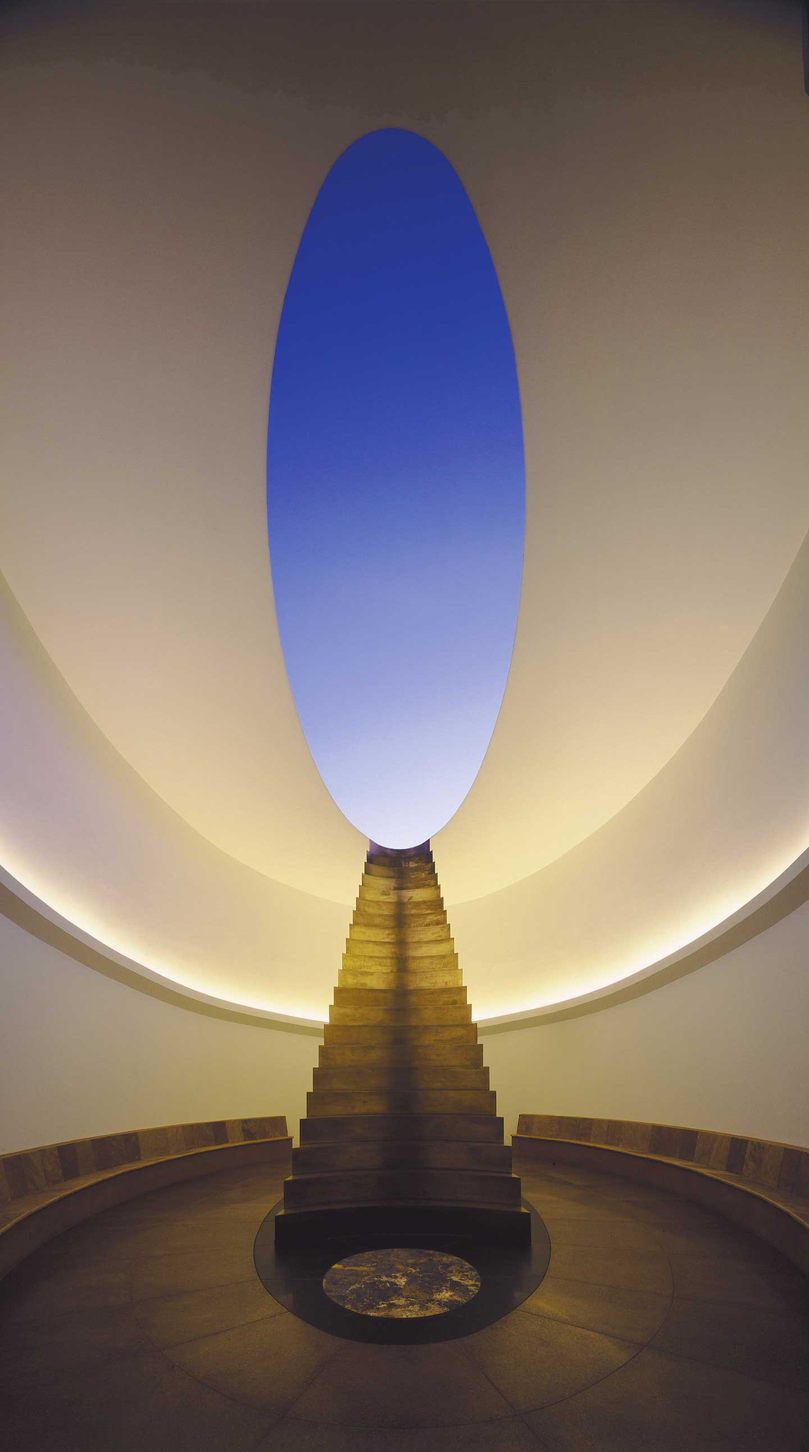
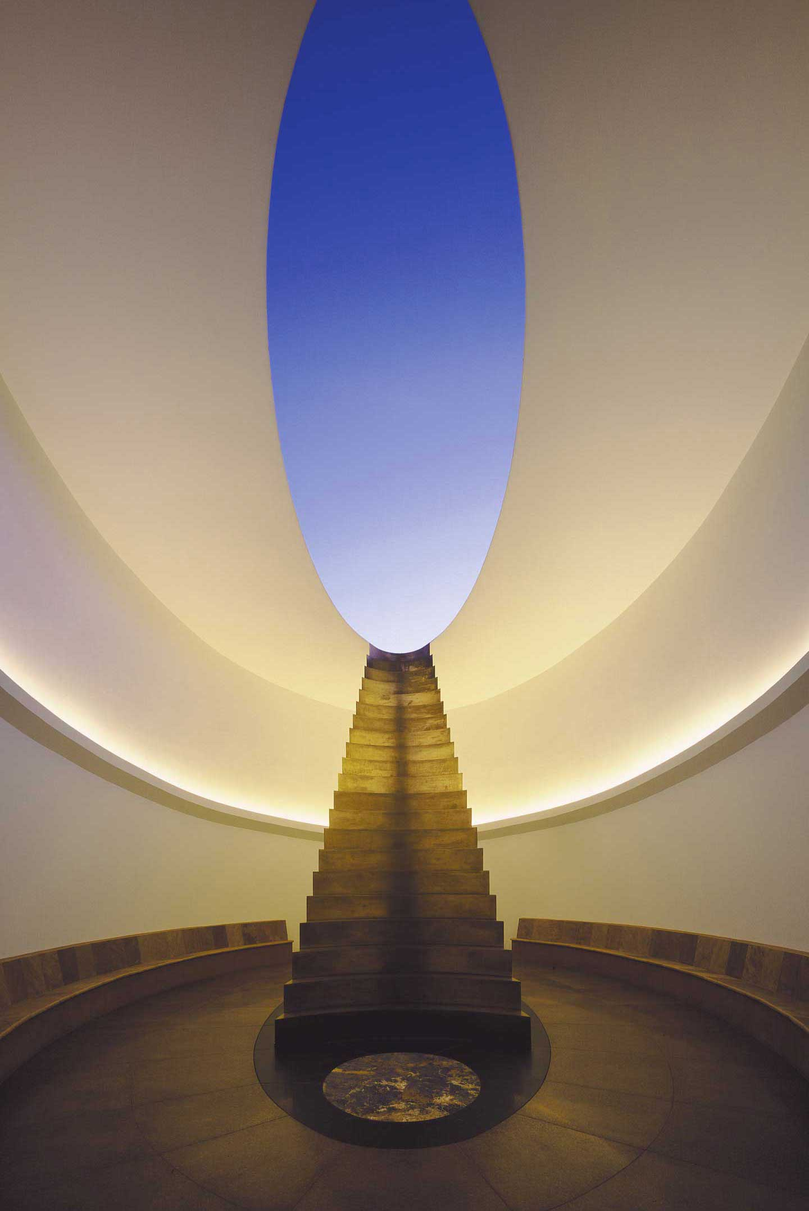
blog update

diff --git a/pub/blog/index.html b/pub/blog/index.html
@@ -307,6 +307,16 @@ limitations under the License.
               </div>
             </div>
           </div>
+          <div data-entry="jamesturrell" data-tags='["culture","art","design"]' data-author="Oliver Henderson" data-cdate='20160517' class="thumb on thumb_jamesturrell">
+            <div style="background-image: url(../img/blog/jamesturrell/1440/cover.jpg);" class="inner">
+              <div class="bg">
+                <div class="copy">
+                  <div class="name">Gateway to Space</div>
+                  <div class="filters">culture&nbsp;&nbsp;/&nbsp;&nbsp;art&nbsp;&nbsp;/&nbsp;&nbsp;design</div>
+                </div>
+              </div>
+            </div>
+          </div>
           <div data-entry="krimston" data-tags='["studio"]' data-author="Clare Nauman" data-cdate='20160401' class="thumb on thumb_krimston">
             <div style="background-image: url(../img/blog/krimston/1440/krimston.jpg);" class="inner">
               <div class="bg">
@@ -3181,7 +3191,176 @@ limitations under the License.
             <!--img(src='../img/work/'+folder+'/'+image)-->
           </div>
         </div>
-        <div class="nav"><a href="/blog/#camo" class="next"> 
+        <div class="nav"><a href="/blog/#jamesturrell" class="prev">
+            <div class="arrow left"></div>
+            <div class="copy">Previous</div></a><a href="/blog/#camo" class="next"> 
+            <div class="copy">Next</div>
+            <div class="arrow right"></div></a>
+          <div class="clear"></div>
+        </div>
+      </div>
+      <div class="entry entry_jamesturrell off">
+        <div style="background-image: url(../img/blog/jamesturrell/1440/cover.jpg);" class="cover"></div>
+        <div class="details">
+          <div class="date">5.17.2016</div>
+          <div class="author">Posted by <a href="/blog/#author=Oliver Henderson">Oliver Henderson</a></div>
+          <div class="tags">Filed Under <a href="/blog/#tag=culture">culture</a>
+            <div class="comma">,</div><a href="/blog/#tag=art">art</a>
+            <div class="comma">,</div><a href="/blog/#tag=design">design</a>
+            <div class="comma">,</div>
+          </div>
+          <div class="shares">
+            <div class="copy">SHARE</div>
+            <div data-type="twitter" class="share share_twitter"><svg version="1.1" xmlns="http://www.w3.org/2000/svg" xmlns:xlink="http://www.w3.org/1999/xlink" viewBox="0 0 612 612" style="enable-background:new 0 0 612 612;" xml:space="preserve">
+<g>
+	<g>
+		<path d="M612,116.258c-22.525,9.981-46.694,16.75-72.088,19.772c25.929-15.527,45.777-40.155,55.184-69.411
+			c-24.322,14.379-51.169,24.82-79.775,30.48c-22.907-24.437-55.49-39.658-91.63-39.658c-69.334,0-125.551,56.217-125.551,125.513
+			c0,9.828,1.109,19.427,3.251,28.606C197.065,206.32,104.556,156.337,42.641,80.386c-10.823,18.51-16.98,40.078-16.98,63.101
+			c0,43.559,22.181,81.993,55.835,104.479c-20.575-0.688-39.926-6.348-56.867-15.756v1.568c0,60.806,43.291,111.554,100.693,123.104
+			c-10.517,2.83-21.607,4.398-33.08,4.398c-8.107,0-15.947-0.803-23.634-2.333c15.985,49.907,62.336,86.199,117.253,87.194
+			c-42.947,33.654-97.099,53.655-155.916,53.655c-10.134,0-20.116-0.612-29.944-1.721c55.567,35.681,121.536,56.485,192.438,56.485
+			c230.948,0,357.188-191.291,357.188-357.188l-0.421-16.253C573.872,163.526,595.211,141.422,612,116.258z"/>
+	</g>
+</g>
+<g>
+</g>
+<g>
+</g>
+<g>
+</g>
+<g>
+</g>
+<g>
+</g>
+<g>
+</g>
+<g>
+</g>
+<g>
+</g>
+<g>
+</g>
+<g>
+</g>
+<g>
+</g>
+<g>
+</g>
+<g>
+</g>
+<g>
+</g>
+<g>
+</g>
+</svg>
+
+            </div>
+            <div data-type="facebook" class="share share_facebook"><?xml version="1.0" encoding="utf-8"?>
+<!-- Generator: Adobe Illustrator 18.1.0, SVG Export Plug-In . SVG Version: 6.00 Build 0)  -->
+<svg version="1.1" id="Layer_1" xmlns="http://www.w3.org/2000/svg" xmlns:xlink="http://www.w3.org/1999/xlink" x="0px" y="0px"
+	 viewBox="0 0 20.6 39.6" enable-background="new 0 0 20.6 39.6" xml:space="preserve">
+<path fill="#FFFFFF" d="M0,14.5h6.1V8.8c0,0-0.3-3.7,2.5-6.5c2.8-2.8,6.6-2.5,11.9-2.1v6.3h-4c0,0-1.7,0-2.4,0.9
+	c-0.8,0.9-0.7,2.2-0.7,2.5v4.5h6.9l-0.9,7h-6v18.1H6.1V21.5H0V14.5z"/>
+</svg>
+
+            </div>
+            <div data-type="link" class="share share_link off"><?xml version="1.0" encoding="iso-8859-1"?>
+<svg version="1.1" xmlns="http://www.w3.org/2000/svg" xmlns:xlink="http://www.w3.org/1999/xlink" x="0px" y="0px"
+	 viewBox="0 0 457.03 457.03" style="enable-background:new 0 0 457.03 457.03;"
+	 xml:space="preserve">
+<g>
+	<path d="M421.512,207.074l-85.795,85.767c-47.352,47.38-124.169,47.38-171.529,0c-7.46-7.439-13.296-15.821-18.421-24.465
+		l39.864-39.861c1.895-1.911,4.235-3.006,6.471-4.296c2.756,9.416,7.567,18.33,14.972,25.736c23.648,23.667,62.128,23.634,85.762,0
+		l85.768-85.765c23.666-23.664,23.666-62.135,0-85.781c-23.635-23.646-62.105-23.646-85.768,0l-30.499,30.532
+		c-24.75-9.637-51.415-12.228-77.373-8.424l64.991-64.989c47.38-47.371,124.177-47.371,171.557,0
+		C468.869,82.897,468.869,159.706,421.512,207.074z M194.708,348.104l-30.521,30.532c-23.646,23.634-62.128,23.634-85.778,0
+		c-23.648-23.667-23.648-62.138,0-85.795l85.778-85.767c23.665-23.662,62.121-23.662,85.767,0
+		c7.388,7.39,12.204,16.302,14.986,25.706c2.249-1.307,4.56-2.369,6.454-4.266l39.861-39.845
+		c-5.092-8.678-10.958-17.03-18.421-24.477c-47.348-47.371-124.172-47.371-171.543,0L35.526,249.96
+		c-47.366,47.385-47.366,124.172,0,171.553c47.371,47.356,124.177,47.356,171.547,0l65.008-65.003
+		C246.109,360.336,219.437,357.723,194.708,348.104z"/>
+</g>
+</svg>
+
+            </div>
+            <div class="share_url off">
+              <input type="text" value="http://www.wjerlkwejrelw.com/"/>
+            </div>
+          </div>
+          <div class="clear"></div>
+          <div class="copy">
+            <div class="name">Gateway to Space</div>
+            <div class="description">Artist <a target='_new' href='http://www.jamesturrell.com'>James Turell</a> is well known for his expansive body of work exploring the materiality of light, space and color. I’ve been inspired by his work ever since learning about it in Art History. Recently his work was popularized to a new generation thanks to a certain musician who referenced Turell’s work for his Hotline Bling music video. What some newcomers to his work might have missed however, is Turell’s most ambitious and astoundingly massive work to date, <a target='_new' href='http://www.rodencrater.com'>Roden Crater</a>. Viewed as the “magnum opus" to his prolific career, Roden Crater, is large-scale artwork covering several square kilometers and located in an inactive volcano in a remote region of Northern Arizona. Functioning as a “naked-eye observatory” and complete with celestial alignments, I find this project is truly awe inspiring on multiple levels. Although it is currently closed for ongoing construction since Turell acquired the site in 1977, I plan to visit this installation when completed (likely many years from now) and would encourage those who like his work to do the same.</div>
+          </div>
+        </div>
+        <div class="clear"></div>
+        <div class="body">
+          <div class="space"></div>
+          <div class="images">
+            <div class="image pad_vert">
+              <div style="background-image: url(/img/blog/jamesturrell/1440/2_holzherr.jpg);" class="img"></div>
+              <!--img(src='../img/work/'+folder+'/'+image)-->
+            </div>
+            <div class="image pad_vert">
+              <div style="background-image: url(/img/blog/jamesturrell/1440/03-roden.jpg);" class="img"></div>
+              <!--img(src='../img/work/'+folder+'/'+image)-->
+            </div>
+            <div class="clear"></div>
+          </div>
+          <div class="space"></div>
+          <div class="images">
+            <div class="image pad_vert">
+              <div style="background-image: url(/img/blog/jamesturrell/1440/craters-eye2.jpg);" class="img"></div>
+              <!--img(src='../img/work/'+folder+'/'+image)-->
+            </div>
+            <div class="image pad_vert">
+              <div style="background-image: url(/img/blog/jamesturrell/1440/eastportal_evening.jpg);" class="img"></div>
+              <!--img(src='../img/work/'+folder+'/'+image)-->
+            </div>
+            <div class="clear"></div>
+          </div>
+          <div class="space"></div>
+          <div class="image pad_none">
+            <div style="background-image: url(/img/blog/jamesturrell/1440/conjunctionb.jpg);" class="img"></div>
+            <!--img(src='../img/work/'+folder+'/'+image)-->
+          </div>
+          <div class="space"></div>
+          <div class="images">
+            <div class="image pad_vert">
+              <div style="background-image: url(/img/blog/jamesturrell/1440/img_door.jpg);" class="img"></div>
+              <!--img(src='../img/work/'+folder+'/'+image)-->
+            </div>
+            <div class="image pad_vert">
+              <div style="background-image: url(/img/blog/jamesturrell/1440/img_door2.jpg);" class="img"></div>
+              <!--img(src='../img/work/'+folder+'/'+image)-->
+            </div>
+            <div class="clear"></div>
+          </div>
+          <div class="space"></div>
+          <div class="images">
+            <div class="image pad_vert">
+              <div style="background-image: url(/img/blog/jamesturrell/1440/roden.jpg);" class="img"></div>
+              <!--img(src='../img/work/'+folder+'/'+image)-->
+            </div>
+            <div class="image pad_vert">
+              <div style="background-image: url(/img/blog/jamesturrell/1440/southspace.jpg);" class="img"></div>
+              <!--img(src='../img/work/'+folder+'/'+image)-->
+            </div>
+            <div class="clear"></div>
+          </div>
+          <div class="space"></div>
+          <div class="image pad_none">
+            <div style="background-image: url(/img/blog/jamesturrell/1440/rodencrater.jpg);" class="img"></div>
+            <!--img(src='../img/work/'+folder+'/'+image)-->
+          </div>
+          <div class="space"></div>
+          <div class="image pad_none">
+            <div style="background-image: url(/img/blog/jamesturrell/1440/crater_bowl.jpg);" class="img"></div>
+            <!--img(src='../img/work/'+folder+'/'+image)-->
+          </div>
+        </div>
+        <div class="nav"><a href="/blog/#astroswag" class="next"> 
             <div class="copy">Next</div>
             <div class="arrow right"></div></a>
           <div class="clear"></div>
@@ -3383,7 +3562,7 @@ limitations under the License.
       function loadercomplete() {
         Loader.load('../jst/blog.js', 'Blog');
         Global.i()
-        entries = {"BiYuu":{"folder":"BiYuu","cover":"AllArtisans.jpg","author":"Dennice Quijano","date":"2.19.2016","cdate":20160219,"name":"Rugs With Soul, Made By Expert Hands","description":"<a target='_new' href='http://www.biyuu.mx/home/'>BiYuu</a> is a textile design brand that creates beautiful woven rugs. These rugs are led by Marisol Centeno, who founded the brand in 2012. The designer's vision is to create textiles with a strong vision of quality, cutting-edge design and social responsibility.<p>BiYuu takes care of our planet and pays attention to the current state of environmental precarity using earth-friendly, sustainable materials. Implementing small-scale artisanal production, BiYuu supports the custodianship of our natural resources.<p>Marisol Centeno, lead designer, works closely with artisans from Teotenango, Mexico where rug weaving has been a tradition for decades. BiYuu is a fair trade company and uses prices that balance with the market, respects local customs, and all while understanding the process and time it takes to create a handmade product.","color":"pink1","tags":["culture"],"home":true},"artventure":{"folder":"artventure","cover":"Kehinde2.jpg","author":"Sean Missal","date":"03.11.2016","cdate":20160311,"name":"ArtVenture","description":"February was a long month of traveling for our industrial designer, Sean Missal. He traveled up and down the west coast before making his way east, hitting up a variety of galleries and museums along the way.","color":"blue2","tags":["culture","art"]},"astroswag":{"folder":"astroswag","cover":"01_astrostudios_cover.jpg","author":"Zac Maricondia","date":"5.13.2016","cdate":20160513,"name":"Astroswag","description":"One of the perks of working at a design studio is that we occasionally get to design some gear to up our swag factor. This time we did a collection of three fresh t-shirts featuring our mascot, Armstrong the Spaceman. And, because pins are in, we also designed a set of three very spacey pins.","color":"orange2","tags":["studio","culture"],"home":true},"broad":{"folder":"broad","cover":"astrostudios_broad-01.jpg","author":"Woo","date":"01.21.2016","cdate":20160121,"name":"Broad Exploration","description":"Last week I was in LA with a few hours to kill and found myself standing in front of a huge honeycomb-like structure. I quickly identified it as The Broad, L.A.'s New Contemporary Art Museum. The museum was designed by Diller Scofidio and Renfro in collaboration with Gensler, and the admission is FREE!","color":"red3","tags":["culture","art"]},"camo":{"folder":"camo","cover":"astro_studios_camo-001.jpg","author":"Alejandro Chavetta","date":"5.12.2016","cdate":20160512,"name":"Hiding in Plain Sight","description":"During WWI, around 1917, British military vessels were being sunk by German U-boats at an alarming rate.","color":"black3","tags":["design","art","culture"],"home":true},"caposter":{"folder":"caposter","cover":"cover.jpg","author":"Tom Galbraith","date":"2.10.2016","cdate":20160210,"name":"Draplin Design’s California Compiled","description":"We are super psyched to receive this new poster from Aaron Draplin and his Draplin Design Company from Portland OR. Astro is logo-checked in Draplin’s homage to the behemoth that is California. In this print titled California Compiled, Astro shares real estate with the likes of WD-40, Bigfoot, Thrasher Magazine and Pavement. We would like to thank Aaron for including us in this killer poster. Get one of these mega-rare posters for your wall <a target='_new' href='http://www.draplin.com/1998/01/ddc089_california_compiled_poster.html'>here</a>. California dreaming indeed!","color":"orange2","tags":["design"],"home":true},"eightarms":{"folder":"eightarms","cover":"cover.png","author":"David Whetstone","date":"7.6.2015","cdate":20150706,"name":"So many watches I need 8 arms","description":"The updated color ways for Minus 8's Layer 24 collection have just dropped in.  In this follow up collection, we were inspired by bold color blocking, and userd the unique layer construction to create new, unexpected color and material finish separations in the case.  New details include various enamel and lume-filled branded etching which adds depth to smooth case geometry.  Look for new Minus 8 watch models soon.","color":"orange1","tags":["design","studio"],"home":true},"flyingmotorcycles":{"folder":"flyingmotorcycles","cover":"jetbike_highres3.jpg","author":"Tom Galbraith","date":"3.25.2016","cdate":20160325,"name":"Flying Motorcycles!","description":"Astro’s Norio Fujikawa has been very active lately.  Currently, Norio’s design concept that mixes motorcycles, space flight and Japanese animation is featured in Forbes’ Lifestyle section. <a target='_new' href='http://www.forbes.com/sites/jimdobson/2016/03/08/meet-george-jetson-the-future-of-flying-motorcycles-is-here/#6b4c467b582c'>Check it OUT!</a>.","color":"red4","tags":["design","culture"],"home":true},"foosball":{"folder":"foosball","cover":"1.jpg","author":"Tom Galbraith","date":"04.03.2016","cdate":20160403,"name":"Foosball Tournament","description":"Last week, we had a gigantic blast competing with Frog Design in an action-packed foosball tournament here at Astro. If you didn’t know, we take our foosball serious here, or more importantly, we are serious about looking good while playing and winning foosball. We designed our first AFC (Astro Foosball Club) t-shirts and patches, as well as a gold trophy to match. Frog took the bait, I mean accepted our invitation to this evening of foos, brews, pizza and beats. With sheer tenacity and skills, Astro emerged victorious!Mega-good–times! We can’t wait to beat another design group in some sort of amusement game. Snooker, Air Hockey? Pop-A-Shot? Bring it on!","color":"blue5","tags":["studio","culture"],"home":true},"iceland":{"folder":"iceland","cover":"cover.jpg","author":"Francois Dransart","date":"11.25.2015","cdate":20151125,"name":"To Iceland and Back Again","description":"Recently our designer Francois Dransart visited Iceland with his buddies.  The week long trip took him through space-like sparseness to lush, gushing waterfalls and fantastic hot springs. He somehow got a drone through customs without a hitch, so now we get to see Iceland through Francois’ eyes. Enjoy!","color":"black2","tags":["travel"],"home":true},"krimston":{"folder":"krimston","cover":"krimston.jpg","author":"Clare Nauman","date":"4.01.2016","cdate":20160401,"name":"TWO phones too many: Astro x Krimston","description":"Krimston came to us with a love for their iPhones and travel. But with the all of the travel came high roaming fees and a constant switching between work and personal phones. We worked with Krimston to design TWO, a, iPhone case that is also a dual SIM card, so all of a users’ contacts and information can stay in one place without having multiple phones.  Check out Krimston’s Kickstarter <a target='_new' href='https://www.kickstarter.com/projects/775086138/krimston-two-dual-sim-case-for-iphone'>here</a>!","color":"blue6","tags":["studio"],"home":true},"malcolm":{"folder":"malcolm","cover":"cover.jpg","author":"Tom Galbraith","date":"9.22.2015","cdate":20150922,"name":"Dodgeball Uniforms","description":"Airbrush painting has long lived in mall kiosks, county fair booths and/or street fairs.  Malcolm Stuart is keeping this art form in thrive-mode working out his loft in Oakland painting his perfect mix of pop and beauty.  Malcolm got his MFA at the School of Visual Arts in Manhattan.  Shortly after graduating he didn't really know what his next step would be, so he started an airbrush apprenticeship at a shop in Green Acres Mall in Jamaica, Queens called Art of Your Mind.","color":"green1","tags":["culture","studio"],"home":true},"nasa":{"folder":"nasa","cover":"cover.jpg","author":"David Whetstone","date":"9.27.2015","cdate":20150927,"name":"NASA Brand Guide","description":"The original NASA brand guide has been making its rounds on the blogs; we saw it on <a target='_new' href='http://hypebeast.com/2015/8/take-a-closer-look-at-nasa-futuristic-logo-from-the-70s'>HYPEBEAST</a> then found the <a href='https://www.flickr.com/photos/thisisdisplay/sets/72157627467855309/' target='_new'>ORIGINAL SOURCE</a>. Here are some of our favorite images.","color":"blue4","tags":["design"],"home":true},"orah":{"folder":"orah","cover":"cover.jpg","author":"Clare Nauman","date":"4.22.2016","cdate":20160422,"name":"Live Stream in 360°","description":"In the world of live video streaming, we are used to seeing video in two dimensions, with images framed up in 90 degree angles. With the latest work we did with VideoStitch, live streaming in 360 degrees is now possible. We worked with the VideoStitch team to create Orah 4i, a four-camera rig that stitches images together to create a 360 degree virtual reality experience. The tiny size means the Orah 4i is inconspicuous and portable. We also created the naming and branding for Orah, making a totally custom font. This little camera rig is making some buzz, and we think <a target='_new' href='http://www.theverge.com/2016/4/6/11339674/orah-4i-4k-live-streaming-camera-virtual-reality-360'>The Verge</a> says it best.","color":"black3","tags":["studio"],"home":true},"oscardelerenta":{"folder":"oscardelerenta","cover":"cover.jpg","author":"Brett Lovelady","date":"04.27.2016","cdate":20160427,"name":"The Sultan of Suave","description":"Recently I attended the Oscar de le Renta exhibit at the San Francisco De Young Museum with my lovely wife and daughter for a grand afternoon of American (via Dominican Republic) fashion history.  ODLR’s genius is on full display in this collection.  We especially enjoyed “The Sultan of Suave’s”  work inspired by thematic locations like Russia, China, Spain, etc. in addition to his bold use of colors, textures, detailing and materials which were amazingly crafted and executed. He often designed for the America’s First Ladies and Hollywood elite, but just as impressive was his work and support for the struggling children of his native Dominican Republic. For more background also checkout his website timeline, <a target='_new' href='http://www.oscardelarenta.com/world-of-oscar'>http://www.oscardelarenta.com/world-of-oscar</a>.","color":"red3","tags":["culture","art"]},"pins":{"folder":"pins","cover":"cover.jpg","author":"Tom Galbraith","date":"8.31.2015","cdate":20150831,"name":"Pins for the Win","description":"With enamel pins trending in streetwear, we were inspired and designed our first collection celebrating our #FIGHTGRAVITY campaign.  These little guys have proven to be popular, so save some space on your lapels for our next collection.","color":"blue4","tags":["culture","studio"],"home":true},"pulse":{"folder":"pulse","cover":"cover.jpg","author":"Tom Galbraith","date":"9.22.2015","cdate":20150922,"name":"Baller sound that won't drain your wallet","description":"Motorola just released the Astro designed Moto Pulse on-ear headphones.  These cans boast 40mm speaker drivers and bluetooth connectivity up to 60 feet.  The battery also lasts up to 18 hours on a single charge.  Yes they look awesome, yes they sound killer, but the real lure just may be their affordability.  $59.99 out the door!  The Pulse comes in two colors to choose from, black and chalk.  Check out the positive reviews in <a target='_new' href='http://www.theverge.com/2015/7/28/9057293/motorola-moto-pulse-moto-surround-headphones-price'>TheVerge</a> and <a target='_new' href='http://www.engadget.com/2015/07/28/motorola-pulse-and-surround/'>Engadget</a>, then go slap a pair on your earholes!","color":"red1","tags":["news"],"home":true},"secretsanta21":{"folder":"secretsanta21","cover":"cover.jpg","author":"Tom Galbraith","date":"12.22.2015","cdate":20151222,"name":"Getting Gifty With It","description":"Coming from a long line of DIY designers, thinkers, and tinkerers, it’s no surprise that we at Astro take Secret Santa serious. After the traditional drawing of co-workers names from a hat, there are only two rules for the gift exchange. Firstly, you can’t make people cry, and secondly no live animals. The gifts often fit into a medium-to-harsh roast type scenario, but not always. Sometimes the gifts are killer hand-made gifts from an awesome person you work with. That’s just the luck of the draw. This was the 21st annual gift exchange, but the first for a good handful of new designers that were indoctrinated.  Always super fun, and Karson in particular can’t wait till next year.","color":"green3","tags":["studio"],"home":true},"snowisdope":{"folder":"snowisdope","cover":"cover.jpg","author":"Tom Galbraith","date":"03.03.2016","cdate":20160303,"name":"Tahoe Snowcation","description":"Ahhh, Snowcation!<p>Check out the snowboard selfie-stick goPro skills of our designer Francois. We had a blast rolling up to Tahoe.","color":"blue5","tags":["travel","studio"],"home":true},"xoxoxbox":{"folder":"xoxoxbox","cover":"2xbox360.jpg","author":"Tom Galbraith","date":"5.04.2016","cdate":20160504,"name":"XOXO XBOX","description":"It’s with bleary eyes and callused fingers that we heard it was game over for the production of the Xbox360 as of April, 2016. Working on the Xbox360 console, controllers and family of accessories was the start of a long running collaboration between ASTRO and Microsoft. Originally released November 22nd 2005, the Xbox360 has since sold over 84 million units and racked up over 78 billion gaming hours played. It is fantastic to be part of the Xbox legacy, which also arguably set the bar for game controllers to this day (they’re still in production). We’d like to also Hi5 the army of creative people that bled into this product family, it was a great run. For more information about our design process and pictures of early Xbox 360 models, check our <a target='_new' href='http://www.astrostudios.com/work/#xbox'>product page</a>.","color":"green1","tags":["studio"],"home":true}};
+        entries = {"BiYuu":{"folder":"BiYuu","cover":"AllArtisans.jpg","author":"Dennice Quijano","date":"2.19.2016","cdate":20160219,"name":"Rugs With Soul, Made By Expert Hands","description":"<a target='_new' href='http://www.biyuu.mx/home/'>BiYuu</a> is a textile design brand that creates beautiful woven rugs. These rugs are led by Marisol Centeno, who founded the brand in 2012. The designer's vision is to create textiles with a strong vision of quality, cutting-edge design and social responsibility.<p>BiYuu takes care of our planet and pays attention to the current state of environmental precarity using earth-friendly, sustainable materials. Implementing small-scale artisanal production, BiYuu supports the custodianship of our natural resources.<p>Marisol Centeno, lead designer, works closely with artisans from Teotenango, Mexico where rug weaving has been a tradition for decades. BiYuu is a fair trade company and uses prices that balance with the market, respects local customs, and all while understanding the process and time it takes to create a handmade product.","color":"pink1","tags":["culture"],"home":true},"artventure":{"folder":"artventure","cover":"Kehinde2.jpg","author":"Sean Missal","date":"03.11.2016","cdate":20160311,"name":"ArtVenture","description":"February was a long month of traveling for our industrial designer, Sean Missal. He traveled up and down the west coast before making his way east, hitting up a variety of galleries and museums along the way.","color":"blue2","tags":["culture","art"]},"astroswag":{"folder":"astroswag","cover":"01_astrostudios_cover.jpg","author":"Zac Maricondia","date":"5.13.2016","cdate":20160513,"name":"Astroswag","description":"One of the perks of working at a design studio is that we occasionally get to design some gear to up our swag factor. This time we did a collection of three fresh t-shirts featuring our mascot, Armstrong the Spaceman. And, because pins are in, we also designed a set of three very spacey pins.","color":"orange2","tags":["studio","culture"],"home":true},"broad":{"folder":"broad","cover":"astrostudios_broad-01.jpg","author":"Woo","date":"01.21.2016","cdate":20160121,"name":"Broad Exploration","description":"Last week I was in LA with a few hours to kill and found myself standing in front of a huge honeycomb-like structure. I quickly identified it as The Broad, L.A.'s New Contemporary Art Museum. The museum was designed by Diller Scofidio and Renfro in collaboration with Gensler, and the admission is FREE!","color":"red3","tags":["culture","art"]},"camo":{"folder":"camo","cover":"astro_studios_camo-001.jpg","author":"Alejandro Chavetta","date":"5.12.2016","cdate":20160512,"name":"Hiding in Plain Sight","description":"During WWI, around 1917, British military vessels were being sunk by German U-boats at an alarming rate.","color":"black3","tags":["design","art","culture"],"home":true},"caposter":{"folder":"caposter","cover":"cover.jpg","author":"Tom Galbraith","date":"2.10.2016","cdate":20160210,"name":"Draplin Design’s California Compiled","description":"We are super psyched to receive this new poster from Aaron Draplin and his Draplin Design Company from Portland OR. Astro is logo-checked in Draplin’s homage to the behemoth that is California. In this print titled California Compiled, Astro shares real estate with the likes of WD-40, Bigfoot, Thrasher Magazine and Pavement. We would like to thank Aaron for including us in this killer poster. Get one of these mega-rare posters for your wall <a target='_new' href='http://www.draplin.com/1998/01/ddc089_california_compiled_poster.html'>here</a>. California dreaming indeed!","color":"orange2","tags":["design"],"home":true},"eightarms":{"folder":"eightarms","cover":"cover.png","author":"David Whetstone","date":"7.6.2015","cdate":20150706,"name":"So many watches I need 8 arms","description":"The updated color ways for Minus 8's Layer 24 collection have just dropped in.  In this follow up collection, we were inspired by bold color blocking, and userd the unique layer construction to create new, unexpected color and material finish separations in the case.  New details include various enamel and lume-filled branded etching which adds depth to smooth case geometry.  Look for new Minus 8 watch models soon.","color":"orange1","tags":["design","studio"],"home":true},"flyingmotorcycles":{"folder":"flyingmotorcycles","cover":"jetbike_highres3.jpg","author":"Tom Galbraith","date":"3.25.2016","cdate":20160325,"name":"Flying Motorcycles!","description":"Astro’s Norio Fujikawa has been very active lately.  Currently, Norio’s design concept that mixes motorcycles, space flight and Japanese animation is featured in Forbes’ Lifestyle section. <a target='_new' href='http://www.forbes.com/sites/jimdobson/2016/03/08/meet-george-jetson-the-future-of-flying-motorcycles-is-here/#6b4c467b582c'>Check it OUT!</a>.","color":"red4","tags":["design","culture"],"home":true},"foosball":{"folder":"foosball","cover":"1.jpg","author":"Tom Galbraith","date":"04.03.2016","cdate":20160403,"name":"Foosball Tournament","description":"Last week, we had a gigantic blast competing with Frog Design in an action-packed foosball tournament here at Astro. If you didn’t know, we take our foosball serious here, or more importantly, we are serious about looking good while playing and winning foosball. We designed our first AFC (Astro Foosball Club) t-shirts and patches, as well as a gold trophy to match. Frog took the bait, I mean accepted our invitation to this evening of foos, brews, pizza and beats. With sheer tenacity and skills, Astro emerged victorious!Mega-good–times! We can’t wait to beat another design group in some sort of amusement game. Snooker, Air Hockey? Pop-A-Shot? Bring it on!","color":"blue5","tags":["studio","culture"],"home":true},"iceland":{"folder":"iceland","cover":"cover.jpg","author":"Francois Dransart","date":"11.25.2015","cdate":20151125,"name":"To Iceland and Back Again","description":"Recently our designer Francois Dransart visited Iceland with his buddies.  The week long trip took him through space-like sparseness to lush, gushing waterfalls and fantastic hot springs. He somehow got a drone through customs without a hitch, so now we get to see Iceland through Francois’ eyes. Enjoy!","color":"black2","tags":["travel"],"home":true},"jamesturrell":{"folder":"jamesturrell","cover":"cover.jpg","author":"Oliver Henderson","date":"5.17.2016","cdate":20160517,"name":"Gateway to Space","description":"Artist <a target='_new' href='http://www.jamesturrell.com'>James Turell</a> is well known for his expansive body of work exploring the materiality of light, space and color. I’ve been inspired by his work ever since learning about it in Art History. Recently his work was popularized to a new generation thanks to a certain musician who referenced Turell’s work for his Hotline Bling music video. What some newcomers to his work might have missed however, is Turell’s most ambitious and astoundingly massive work to date, <a target='_new' href='http://www.rodencrater.com'>Roden Crater</a>. Viewed as the “magnum opus\" to his prolific career, Roden Crater, is large-scale artwork covering several square kilometers and located in an inactive volcano in a remote region of Northern Arizona. Functioning as a “naked-eye observatory” and complete with celestial alignments, I find this project is truly awe inspiring on multiple levels. Although it is currently closed for ongoing construction since Turell acquired the site in 1977, I plan to visit this installation when completed (likely many years from now) and would encourage those who like his work to do the same.","color":"orange1","tags":["culture","art","design"],"home":true},"krimston":{"folder":"krimston","cover":"krimston.jpg","author":"Clare Nauman","date":"4.01.2016","cdate":20160401,"name":"TWO phones too many: Astro x Krimston","description":"Krimston came to us with a love for their iPhones and travel. But with the all of the travel came high roaming fees and a constant switching between work and personal phones. We worked with Krimston to design TWO, a, iPhone case that is also a dual SIM card, so all of a users’ contacts and information can stay in one place without having multiple phones.  Check out Krimston’s Kickstarter <a target='_new' href='https://www.kickstarter.com/projects/775086138/krimston-two-dual-sim-case-for-iphone'>here</a>!","color":"blue6","tags":["studio"],"home":true},"malcolm":{"folder":"malcolm","cover":"cover.jpg","author":"Tom Galbraith","date":"9.22.2015","cdate":20150922,"name":"Dodgeball Uniforms","description":"Airbrush painting has long lived in mall kiosks, county fair booths and/or street fairs.  Malcolm Stuart is keeping this art form in thrive-mode working out his loft in Oakland painting his perfect mix of pop and beauty.  Malcolm got his MFA at the School of Visual Arts in Manhattan.  Shortly after graduating he didn't really know what his next step would be, so he started an airbrush apprenticeship at a shop in Green Acres Mall in Jamaica, Queens called Art of Your Mind.","color":"green1","tags":["culture","studio"],"home":true},"nasa":{"folder":"nasa","cover":"cover.jpg","author":"David Whetstone","date":"9.27.2015","cdate":20150927,"name":"NASA Brand Guide","description":"The original NASA brand guide has been making its rounds on the blogs; we saw it on <a target='_new' href='http://hypebeast.com/2015/8/take-a-closer-look-at-nasa-futuristic-logo-from-the-70s'>HYPEBEAST</a> then found the <a href='https://www.flickr.com/photos/thisisdisplay/sets/72157627467855309/' target='_new'>ORIGINAL SOURCE</a>. Here are some of our favorite images.","color":"blue4","tags":["design"],"home":true},"orah":{"folder":"orah","cover":"cover.jpg","author":"Clare Nauman","date":"4.22.2016","cdate":20160422,"name":"Live Stream in 360°","description":"In the world of live video streaming, we are used to seeing video in two dimensions, with images framed up in 90 degree angles. With the latest work we did with VideoStitch, live streaming in 360 degrees is now possible. We worked with the VideoStitch team to create Orah 4i, a four-camera rig that stitches images together to create a 360 degree virtual reality experience. The tiny size means the Orah 4i is inconspicuous and portable. We also created the naming and branding for Orah, making a totally custom font. This little camera rig is making some buzz, and we think <a target='_new' href='http://www.theverge.com/2016/4/6/11339674/orah-4i-4k-live-streaming-camera-virtual-reality-360'>The Verge</a> says it best.","color":"black3","tags":["studio"],"home":true},"oscardelerenta":{"folder":"oscardelerenta","cover":"cover.jpg","author":"Brett Lovelady","date":"04.27.2016","cdate":20160427,"name":"The Sultan of Suave","description":"Recently I attended the Oscar de le Renta exhibit at the San Francisco De Young Museum with my lovely wife and daughter for a grand afternoon of American (via Dominican Republic) fashion history.  ODLR’s genius is on full display in this collection.  We especially enjoyed “The Sultan of Suave’s”  work inspired by thematic locations like Russia, China, Spain, etc. in addition to his bold use of colors, textures, detailing and materials which were amazingly crafted and executed. He often designed for the America’s First Ladies and Hollywood elite, but just as impressive was his work and support for the struggling children of his native Dominican Republic. For more background also checkout his website timeline, <a target='_new' href='http://www.oscardelarenta.com/world-of-oscar'>http://www.oscardelarenta.com/world-of-oscar</a>.","color":"red3","tags":["culture","art"]},"pins":{"folder":"pins","cover":"cover.jpg","author":"Tom Galbraith","date":"8.31.2015","cdate":20150831,"name":"Pins for the Win","description":"With enamel pins trending in streetwear, we were inspired and designed our first collection celebrating our #FIGHTGRAVITY campaign.  These little guys have proven to be popular, so save some space on your lapels for our next collection.","color":"blue4","tags":["culture","studio"],"home":true},"pulse":{"folder":"pulse","cover":"cover.jpg","author":"Tom Galbraith","date":"9.22.2015","cdate":20150922,"name":"Baller sound that won't drain your wallet","description":"Motorola just released the Astro designed Moto Pulse on-ear headphones.  These cans boast 40mm speaker drivers and bluetooth connectivity up to 60 feet.  The battery also lasts up to 18 hours on a single charge.  Yes they look awesome, yes they sound killer, but the real lure just may be their affordability.  $59.99 out the door!  The Pulse comes in two colors to choose from, black and chalk.  Check out the positive reviews in <a target='_new' href='http://www.theverge.com/2015/7/28/9057293/motorola-moto-pulse-moto-surround-headphones-price'>TheVerge</a> and <a target='_new' href='http://www.engadget.com/2015/07/28/motorola-pulse-and-surround/'>Engadget</a>, then go slap a pair on your earholes!","color":"red1","tags":["news"],"home":true},"secretsanta21":{"folder":"secretsanta21","cover":"cover.jpg","author":"Tom Galbraith","date":"12.22.2015","cdate":20151222,"name":"Getting Gifty With It","description":"Coming from a long line of DIY designers, thinkers, and tinkerers, it’s no surprise that we at Astro take Secret Santa serious. After the traditional drawing of co-workers names from a hat, there are only two rules for the gift exchange. Firstly, you can’t make people cry, and secondly no live animals. The gifts often fit into a medium-to-harsh roast type scenario, but not always. Sometimes the gifts are killer hand-made gifts from an awesome person you work with. That’s just the luck of the draw. This was the 21st annual gift exchange, but the first for a good handful of new designers that were indoctrinated.  Always super fun, and Karson in particular can’t wait till next year.","color":"green3","tags":["studio"],"home":true},"snowisdope":{"folder":"snowisdope","cover":"cover.jpg","author":"Tom Galbraith","date":"03.03.2016","cdate":20160303,"name":"Tahoe Snowcation","description":"Ahhh, Snowcation!<p>Check out the snowboard selfie-stick goPro skills of our designer Francois. We had a blast rolling up to Tahoe.","color":"blue5","tags":["travel","studio"],"home":true},"xoxoxbox":{"folder":"xoxoxbox","cover":"2xbox360.jpg","author":"Tom Galbraith","date":"5.04.2016","cdate":20160504,"name":"XOXO XBOX","description":"It’s with bleary eyes and callused fingers that we heard it was game over for the production of the Xbox360 as of April, 2016. Working on the Xbox360 console, controllers and family of accessories was the start of a long running collaboration between ASTRO and Microsoft. Originally released November 22nd 2005, the Xbox360 has since sold over 84 million units and racked up over 78 billion gaming hours played. It is fantastic to be part of the Xbox legacy, which also arguably set the bar for game controllers to this day (they’re still in production). We’d like to also Hi5 the army of creative people that bled into this product family, it was a great run. For more information about our design process and pictures of early Xbox 360 models, check our <a target='_new' href='http://www.astrostudios.com/work/#xbox'>product page</a>.","color":"green1","tags":["studio"],"home":true}};
       }
     </script>
     <div class="dbar on">
